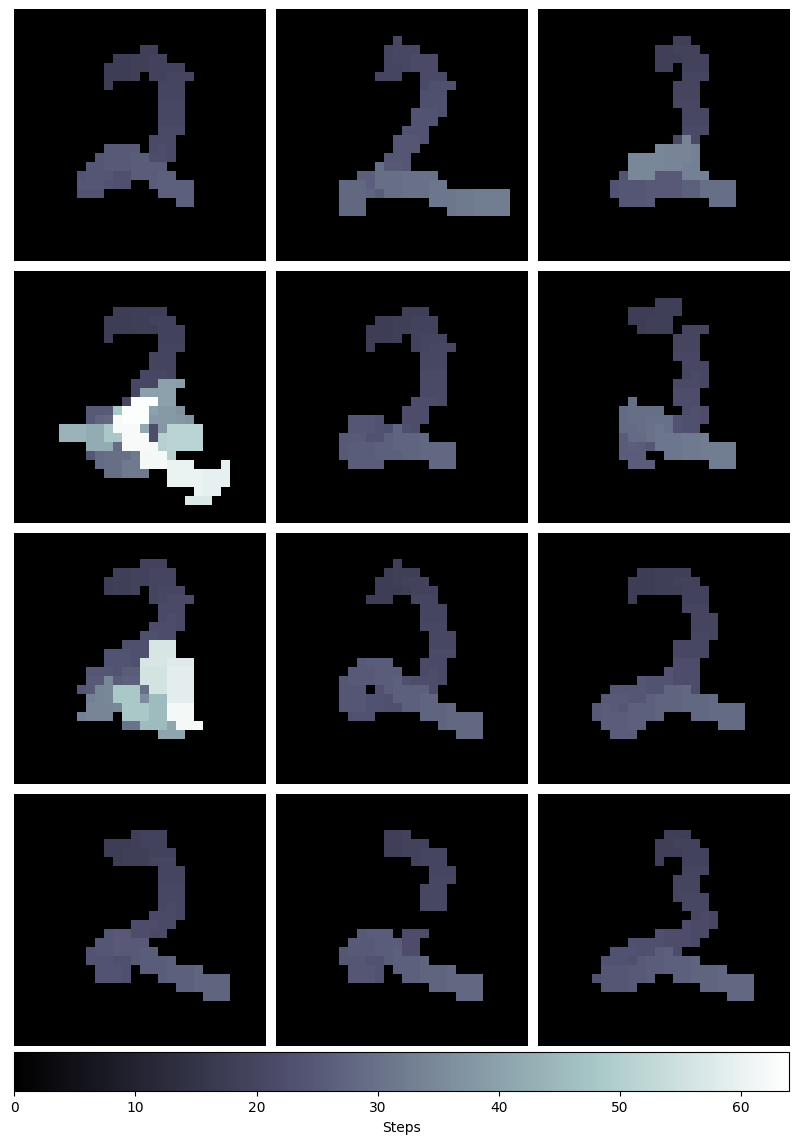
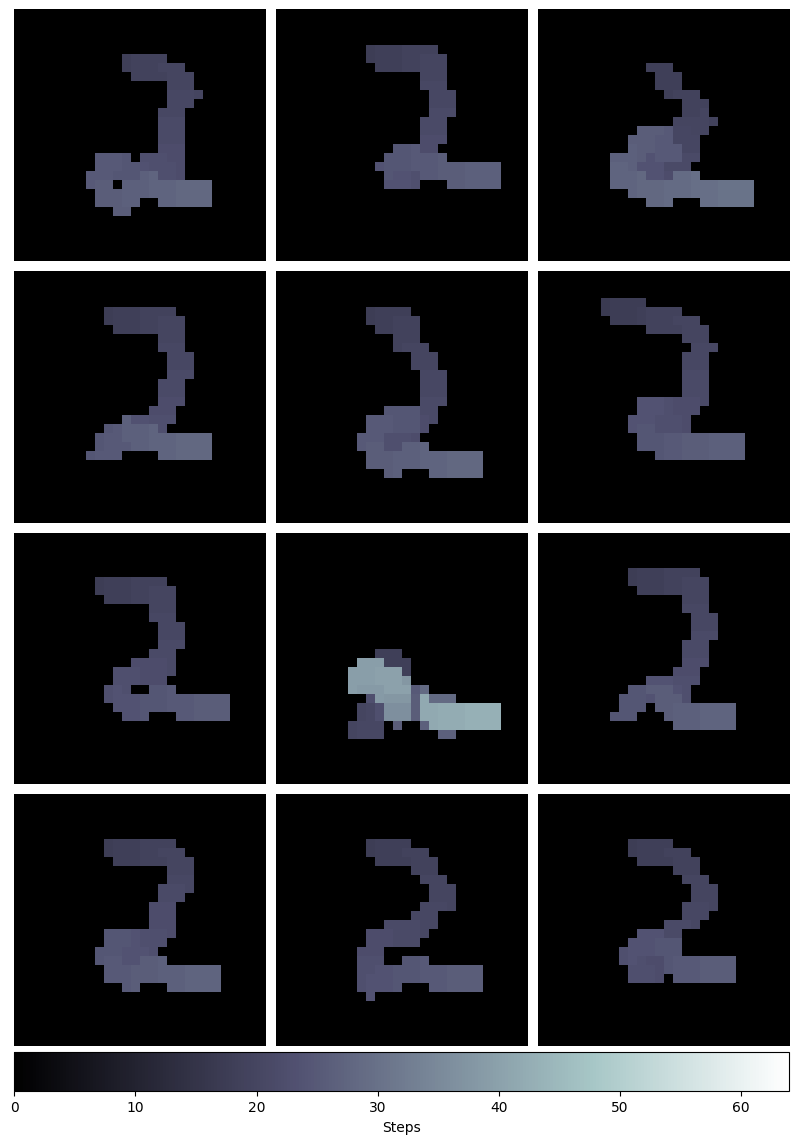
base version fixes

diff --git a/src/reproduce_modules/nn_agent.py b/src/reproduce_modules/nn_agent.py
@@ -203,8 +203,7 @@ class Agent(object):
         else:    
             rand = np.random.random()
             
-            if rand < self.epsilon*0.01:
-                return 98
+            
 
             # create batch of states (prediciton must be in batches)
             glob_batch = np.array([global_state])
@@ -213,6 +212,11 @@ class Agent(object):
             
             # Ask the QNetwork for an action
             actions = np.array(self.q_eval.dqn([glob_batch, loc_batch])[0])
+
+
+            if rand < self.epsilon*0.01:
+                actions[98] = np.max(actions)+1
+
 
             while illegal_list[np.argmax(actions)] == 1:
                 actions[np.argmax(actions)] = -1
@@ -230,10 +234,6 @@ class Agent(object):
             if rand < self.epsilon*0.01:
                 return 98
 
-            
-
-            
-
             glob_batch = np.array([global_state])
             loc_batch = np.array([local_state])
 
@@ -247,27 +247,13 @@ class Agent(object):
             actions = list(enumerate(actions))
             actions = sorted(actions, key=lambda x: x[1])
             actions = [(0, 0) for _ in actions[:-5]] + actions[-5:]
-            """ action_sum = np.sum([i[1] for i in actions])
-            actions = [(i[0], i[1]/action_sum) for i in actions] """
-
-
-            
             probabilities = [i[1] for i in actions]
-
             probabilities = list(probabilities[:-5]) + list(self.apply_softmax(probabilities[-5:]))
             
-
             action = np.argmax(np.random.multinomial(1000, probabilities))
 
-
-            #action = np.random.choice(len(actions), 1, p=probabilities)
-
-    
             action = actions[action][0]
-
             while(illegal_list[action] == 1):
-                #action = np.random.choice(len(actions), 1, p=probabilities)
-
                 action = np.argmax(np.random.multinomial(1000, probabilities))
                 action = actions[action][0]
                 

diff --git a/src/train.py b/src/train.py
@@ -103,7 +103,7 @@ def reproduce(args):
     data.sample(n_episodes)
 
     env = Rep_Env(canvas_size, patch_size, data.labeled_pro_data, with_stopAction=args.stopAction, with_liftpen=args.liftpen, with_overdraw=args.overdraw, with_noisy=False, generative=False)
-    agent_args = {"softmax": args.softmax,"gamma": hyp_data["gamma"], "epsilon": hyp_data["epsilon"], "epsilon_episodes": hyp_data["epsilon_episodes"], "alpha": hyp_data["alpha"], "replace_target": int(hyp_data["replace_target"]), 
+    agent_args = {"softmax": args.softmax, "gamma": hyp_data["gamma"], "epsilon": hyp_data["epsilon"], "epsilon_episodes": hyp_data["epsilon_episodes"], "alpha": hyp_data["alpha"], "replace_target": int(hyp_data["replace_target"]), 
                   "global_input_dims": glob_in_dims, "local_input_dims": loc_in_dims, 
                   "mem_size": mem_size, "batch_size": batch_size}
     agent = Rep_Agent(**agent_args)
@@ -116,7 +116,7 @@ def reproduce(args):
         agent=agent,
         data=data,
         learn_plot=learn_plot,
-        episode_mem_size=episode_mem_size,
+        episode_mem_size=episode_mem_size, 
         n_episodes=n_episodes,
         n_steps=n_steps,
         model_path=model_path,

diff --git a/src/extras/train_functions.py b/src/extras/train_functions.py
@@ -40,7 +40,6 @@ def train(env, agent, data, learn_plot, episode_mem_size, n_episodes, n_steps, m
     
     #prepare Data
     data.shuffle()
-    env.referenceData = data.pro_data
 
     #Fill Replay Buffer
     replay_fill = True
